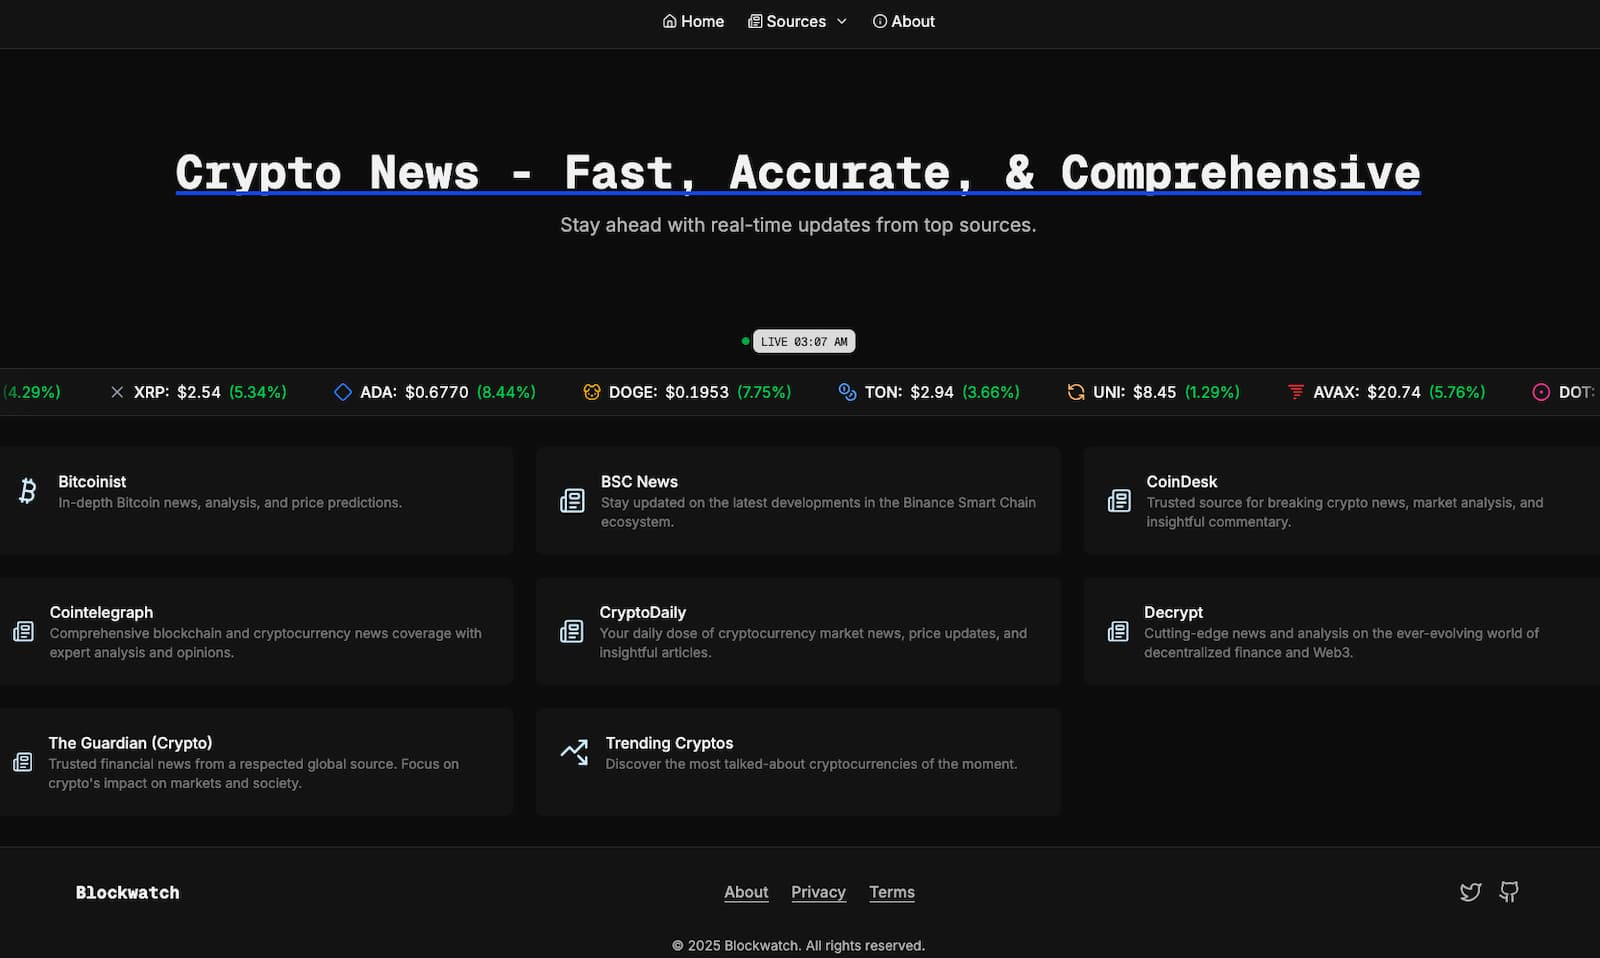
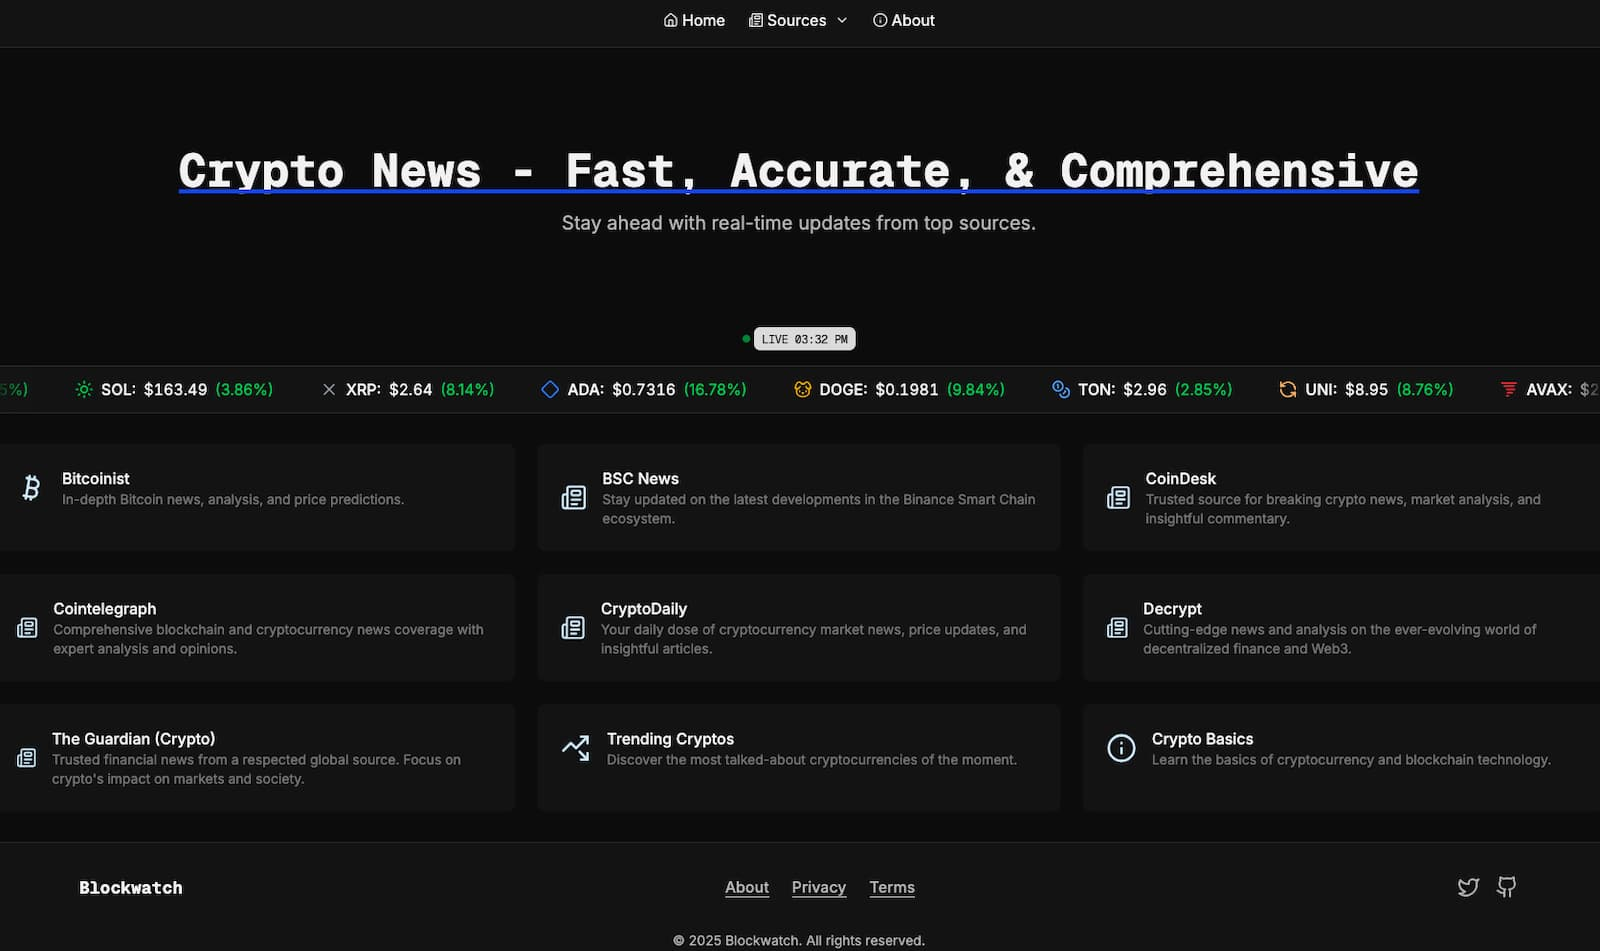
crypto-basics

diff --git a/src/routes/crypto-basics/+page.svelte b/src/routes/crypto-basics/+page.svelte
@@ -1,0 +1,159 @@
+<script lang="ts">
+    import {
+        Bitcoin,
+        Network,
+        Wallet,
+        Coins,
+        ArrowRight,
+        AlertTriangle,
+    } from "@lucide/svelte";
+    import FAQ from "$lib/components/ui/CryptoBasicsAccordion.svelte";
+
+    const pageTitle = "Crypto Basics - Blockwatch";
+    const pageDescription =
+        "Learn the basics of cryptocurrency, blockchain, and how digital money works.";
+    const pageKeywords =
+        "cryptocurrency, blockchain, digital money, decentralized, security";
+    const pageAuthor = "Blockwatch Team";
+</script>
+
+<svelte:head>
+    <title>{pageTitle}</title>
+    <meta name="description" content={pageDescription} />
+    <meta name="keywords" content={pageKeywords} />
+    <meta name="author" content={pageAuthor} />
+</svelte:head>
+
+<!--Mobile Responsive -->
+<div
+    class="max-w-3xl mx-auto px-4 sm:px-6 py-6 sm:py-8 bg-background text-foreground"
+>
+    <h1
+        class="text-2xl sm:text-3xl font-bold mb-4 sm:mb-6 flex items-center gap-2"
+    >
+        <Bitcoin class="w-6 h-6 sm:w-8 sm:h-8 text-orange-500" /> Crypto Basics
+    </h1>
+
+    <!-- What is Cryptocurrency? -->
+    <section
+        class="mb-6 sm:mb-8 bg-background-alt rounded-lg p-4 sm:p-6 border border-border-card"
+    >
+        <h2
+            class="text-xl sm:text-2xl font-semibold mb-2 sm:mb-3 flex items-center gap-2"
+        >
+            <Network class="w-5 h-5 sm:w-6 sm:h-6 text-blue-500" /> What is Cryptocurrency?
+        </h2>
+        <p class="mb-3 sm:mb-4 text-sm sm:text-base">
+            Cryptocurrency is digital money that uses cryptography for security.
+            Unlike traditional currencies, it operates without a central
+            authority (like a bank or government).
+        </p>
+        <ul class="list-disc pl-5 space-y-1.5 sm:space-y-2">
+            <li class="flex items-start gap-2 text-sm sm:text-base">
+                <ArrowRight
+                    class="w-3.5 h-3.5 sm:w-4 sm:h-4 mt-0.5 flex-shrink-0 text-muted-foreground"
+                />
+                <strong>Decentralized:</strong> No single entity controls it.
+            </li>
+            <li class="flex items-start gap-2 text-sm sm:text-base">
+                <ArrowRight
+                    class="w-3.5 h-3.5 sm:w-4 sm:h-4 mt-0.5 flex-shrink-0 text-muted-foreground"
+                />
+                <strong>Transparent:</strong> Transactions are recorded on a public
+                ledger (blockchain).
+            </li>
+            <li class="flex items-start gap-2 text-sm sm:text-base">
+                <ArrowRight
+                    class="w-3.5 h-3.5 sm:w-4 sm:h-4 mt-0.5 flex-shrink-0 text-muted-foreground"
+                />
+                <strong>Global:</strong> Anyone with internet access can use it.
+            </li>
+        </ul>
+    </section>
+
+    <!-- How Does It Work? -->
+    <section
+        class="mb-6 sm:mb-8 bg-background-alt rounded-lg p-4 sm:p-6 border border-border-card"
+    >
+        <h2
+            class="text-xl sm:text-2xl font-semibold mb-2 sm:mb-3 flex items-center gap-2"
+        >
+            <Wallet class="w-5 h-5 sm:w-6 sm:h-6 text-purple-500" /> How Does It
+            Work?
+        </h2>
+        <p class="mb-3 sm:mb-4 text-sm sm:text-base">
+            Cryptocurrencies rely on blockchain technology:
+        </p>
+        <ul class="list-disc pl-5 space-y-1.5 sm:space-y-2">
+            <li class="flex items-start gap-2 text-sm sm:text-base">
+                <ArrowRight
+                    class="w-3.5 h-3.5 sm:w-4 sm:h-4 mt-0.5 flex-shrink-0 text-muted-foreground"
+                />
+                <strong>Blockchain:</strong> A chain of blocks (records) that is
+                immutable and shared across a network.
+            </li>
+            <li class="flex items-start gap-2 text-sm sm:text-base">
+                <ArrowRight
+                    class="w-3.5 h-3.5 sm:w-4 sm:h-4 mt-0.5 flex-shrink-0 text-muted-foreground"
+                />
+                <strong>Mining/Staking:</strong> How new coins are created and transactions
+                are verified.
+            </li>
+            <li class="flex items-start gap-2 text-sm sm:text-base">
+                <ArrowRight
+                    class="w-3.5 h-3.5 sm:w-4 sm:h-4 mt-0.5 flex-shrink-0 text-muted-foreground"
+                />
+                <strong>Wallets:</strong> Software to store and manage your crypto
+                (like a digital bank account).
+            </li>
+        </ul>
+    </section>
+
+    <!-- Why Use Crypto? -->
+    <section
+        class="mb-6 sm:mb-8 bg-background-alt rounded-lg p-4 sm:p-6 border border-border-card"
+    >
+        <h2
+            class="text-xl sm:text-2xl font-semibold mb-2 sm:mb-3 flex items-center gap-2"
+        >
+            <Coins class="w-5 h-5 sm:w-6 sm:h-6 text-green-500" /> Why Use Cryptocurrency?
+        </h2>
+        <ul class="list-disc pl-5 space-y-1.5 sm:space-y-2">
+            <li class="flex items-start gap-2 text-sm sm:text-base">
+                <ArrowRight
+                    class="w-3.5 h-3.5 sm:w-4 sm:h-4 mt-0.5 flex-shrink-0 text-muted-foreground"
+                />
+                <strong>Lower Fees:</strong> No middlemen (like banks) means cheaper
+                transactions.
+            </li>
+            <li class="flex items-start gap-2 text-sm sm:text-base">
+                <ArrowRight
+                    class="w-3.5 h-3.5 sm:w-4 sm:h-4 mt-0.5 flex-shrink-0 text-muted-foreground"
+                />
+                <strong>Privacy:</strong> Some coins offer more anonymity than traditional
+                payments.
+            </li>
+            <li class="flex items-start gap-2 text-sm sm:text-base">
+                <ArrowRight
+                    class="w-3.5 h-3.5 sm:w-4 sm:h-4 mt-0.5 flex-shrink-0 text-muted-foreground"
+                />
+                <strong>Innovation:</strong> Powers apps like DeFi (decentralized
+                finance) and NFTs.
+            </li>
+        </ul>
+    </section>
+    <FAQ />
+
+    <!-- Disclaimer -->
+    <div
+        class="bg-yellow-100/20 border-l-4 border-yellow-500 p-3 sm:p-4 text-xs sm:text-sm flex items-start gap-2"
+    >
+        <AlertTriangle
+            class="w-4 h-4 sm:w-5 sm:h-5 text-yellow-500 flex-shrink-0"
+        />
+        <p>
+            <strong>Note:</strong> Crypto is volatile and risky. Do your own research
+            before investing.
+        </p>
+    </div>
+</div>

diff --git a/src/lib/components/ui/CryptoBasicsAccordion.svelte b/src/lib/components/ui/CryptoBasicsAccordion.svelte
@@ -1,0 +1,43 @@
+<script lang="ts">
+    import { Accordion } from "bits-ui";
+    import { ChevronDown } from "@lucide/svelte";
+
+    const faqs = [
+        {
+            question: "Is cryptocurrency safe?",
+            answer: "Crypto is secure by design but carries risks like volatility and scams. Always use trusted wallets and exchanges.",
+        },
+        {
+            question: "How do I buy cryptocurrency?",
+            answer: "Through exchanges (like Binance or Coinbase) using fiat money. You'll need a wallet to store it securely.",
+        },
+        {
+            question: "What's the difference between Bitcoin and Ethereum?",
+            answer: "Bitcoin is digital gold for payments, while Ethereum is a programmable blockchain for apps and smart contracts.",
+        },
+        {
+            question: "Can I lose all my money in crypto?",
+            answer: "Yes. Crypto is highly volatile. Only invest what you can afford to lose.",
+        },
+    ];
+</script>
+
+<Accordion.Root type="single" class="mt-6">
+    {#each faqs as faq, i}
+        <Accordion.Item value={`item-${i}`} class="border-b border-border-card">
+            <Accordion.Header>
+                <Accordion.Trigger
+                    class="group flex w-full items-center justify-between py-4 text-left font-medium"
+                >
+                    <span>{faq.question}</span>
+                    <ChevronDown
+                        class="h-5 w-5 shrink-0 transition-transform duration-200 group-data-[state=open]:rotate-180 text-muted-foreground"
+                    />
+                </Accordion.Trigger>
+            </Accordion.Header>
+            <Accordion.Content class="pb-4 text-sm text-foreground-alt">
+                {faq.answer}
+            </Accordion.Content>
+        </Accordion.Item>
+    {/each}
+</Accordion.Root>

diff --git a/src/lib/components/Sources.svelte b/src/lib/components/Sources.svelte
@@ -1,7 +1,7 @@
 <script lang="ts">
-    import { Bitcoin, Newspaper, TrendingUpDown } from "@lucide/svelte";
+    import { Bitcoin, Newspaper, TrendingUpDown, Info } from "@lucide/svelte";
 
-    // News sources data from the /routes
+    // News sources data from the /routes also an array of objects so i can easily update etc etc
     export let newsSources = [
         {
             name: "Bitcoinist",
@@ -58,6 +58,13 @@
             icon: TrendingUpDown,
             description:
                 "Discover the most talked-about cryptocurrencies of the moment.",
+        },
+        {
+            name: "Crypto Basics",
+            path: "/crypto-basics",
+            icon: Info,
+            description:
+                "Learn the basics of cryptocurrency and blockchain technology.",
         },
     ];
 </script>

diff --git a/src/lib/components/ui/NavigationMenu.svelte b/src/lib/components/ui/NavigationMenu.svelte
@@ -24,6 +24,13 @@
             description:
                 "Discover the most talked-about cryptocurrencies of the moment.",
         },
+        {
+            name: "Crypto Basics",
+            path: "/crypto-basics",
+            icon: Info,
+            description:
+                "Learn the basics of cryptocurrency and blockchain technology.",
+        },
     ];
 </script>
 

diff --git a/src/routes/crypto-basics/+page.server.ts b/src/routes/crypto-basics/+page.server.ts
@@ -1,0 +1,2 @@
+// So that we can prerender the page, only static HTML better SEO
+export const prerender = true;
